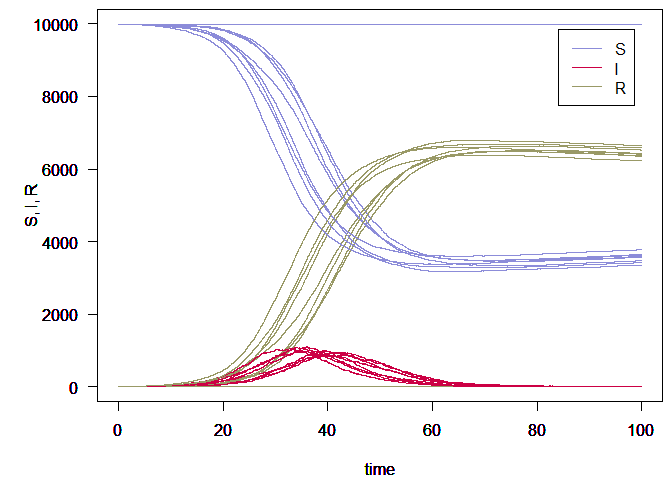
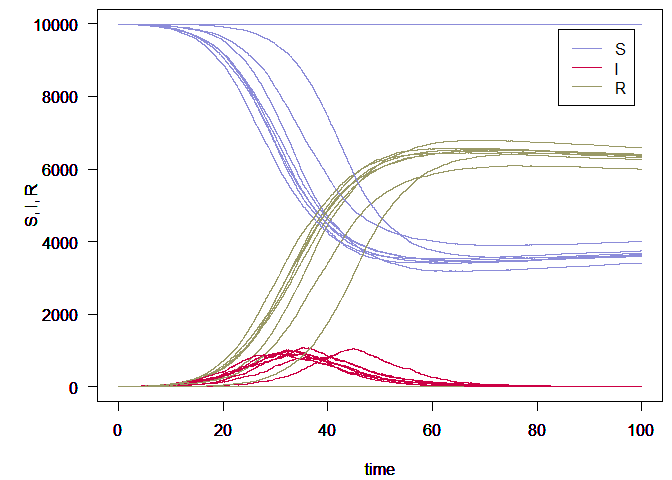
Added latest figures and updated Readmes

Changed region(s): [[0.25, 0.0312, 0.9688, 0.8125]]

diff --git a/README.md b/README.md
@@ -47,9 +47,6 @@ draw with `n = I` and `p = sigma * dt`. Note, N = S + I + R.
 This is a basic example which shows you how to solve a common problem.
 The model is run once for 10,000 iterations with a time step of 0.01
 
-    #> Warning in par(mar = c(4.1, 5.1, 0.5, 0.5), las = 1, new = TRUE): calling
-    #> par(new=TRUE) with no plot
-
 <div class="figure" style="text-align: center">
 
 <img src="man/figures/README-unnamed-chunk-2-1.png" alt="SIR simulation run once, N = 10,000 and dt = 0.01" width="100%" />
@@ -62,11 +59,8 @@ SIR simulation run once, N = 10,000 and dt = 0.01
 
 </div>
 
-This time the model is run ten times for 10,000 iterations with a time
-step of 0.01 using the same code.
-
-    #> Warning in par(mar = c(4.1, 5.1, 0.5, 0.5), las = 1, new = TRUE): calling
-    #> par(new=TRUE) with no plot
+This time the model is run a hundred times for 10,000 iterations with a
+time step of 0.01 using the same code.
 
 <div class="figure" style="text-align: center">
 
